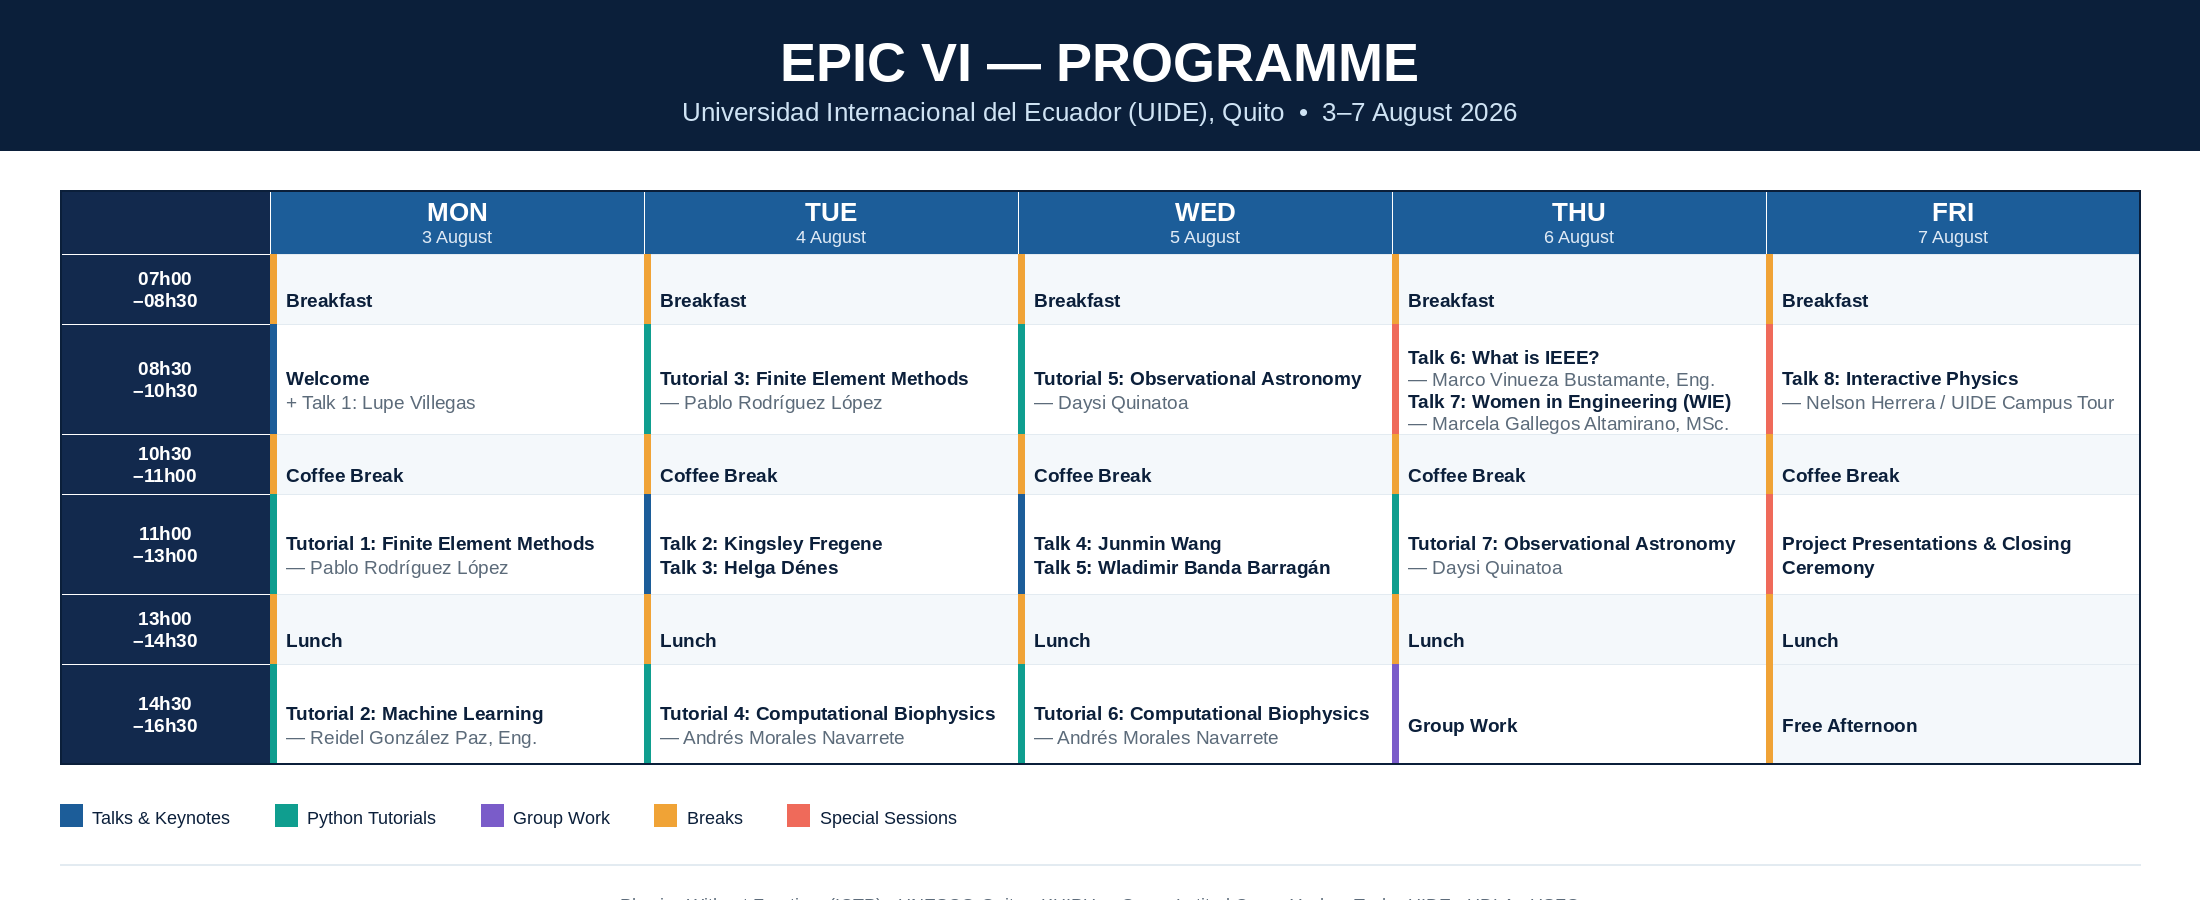
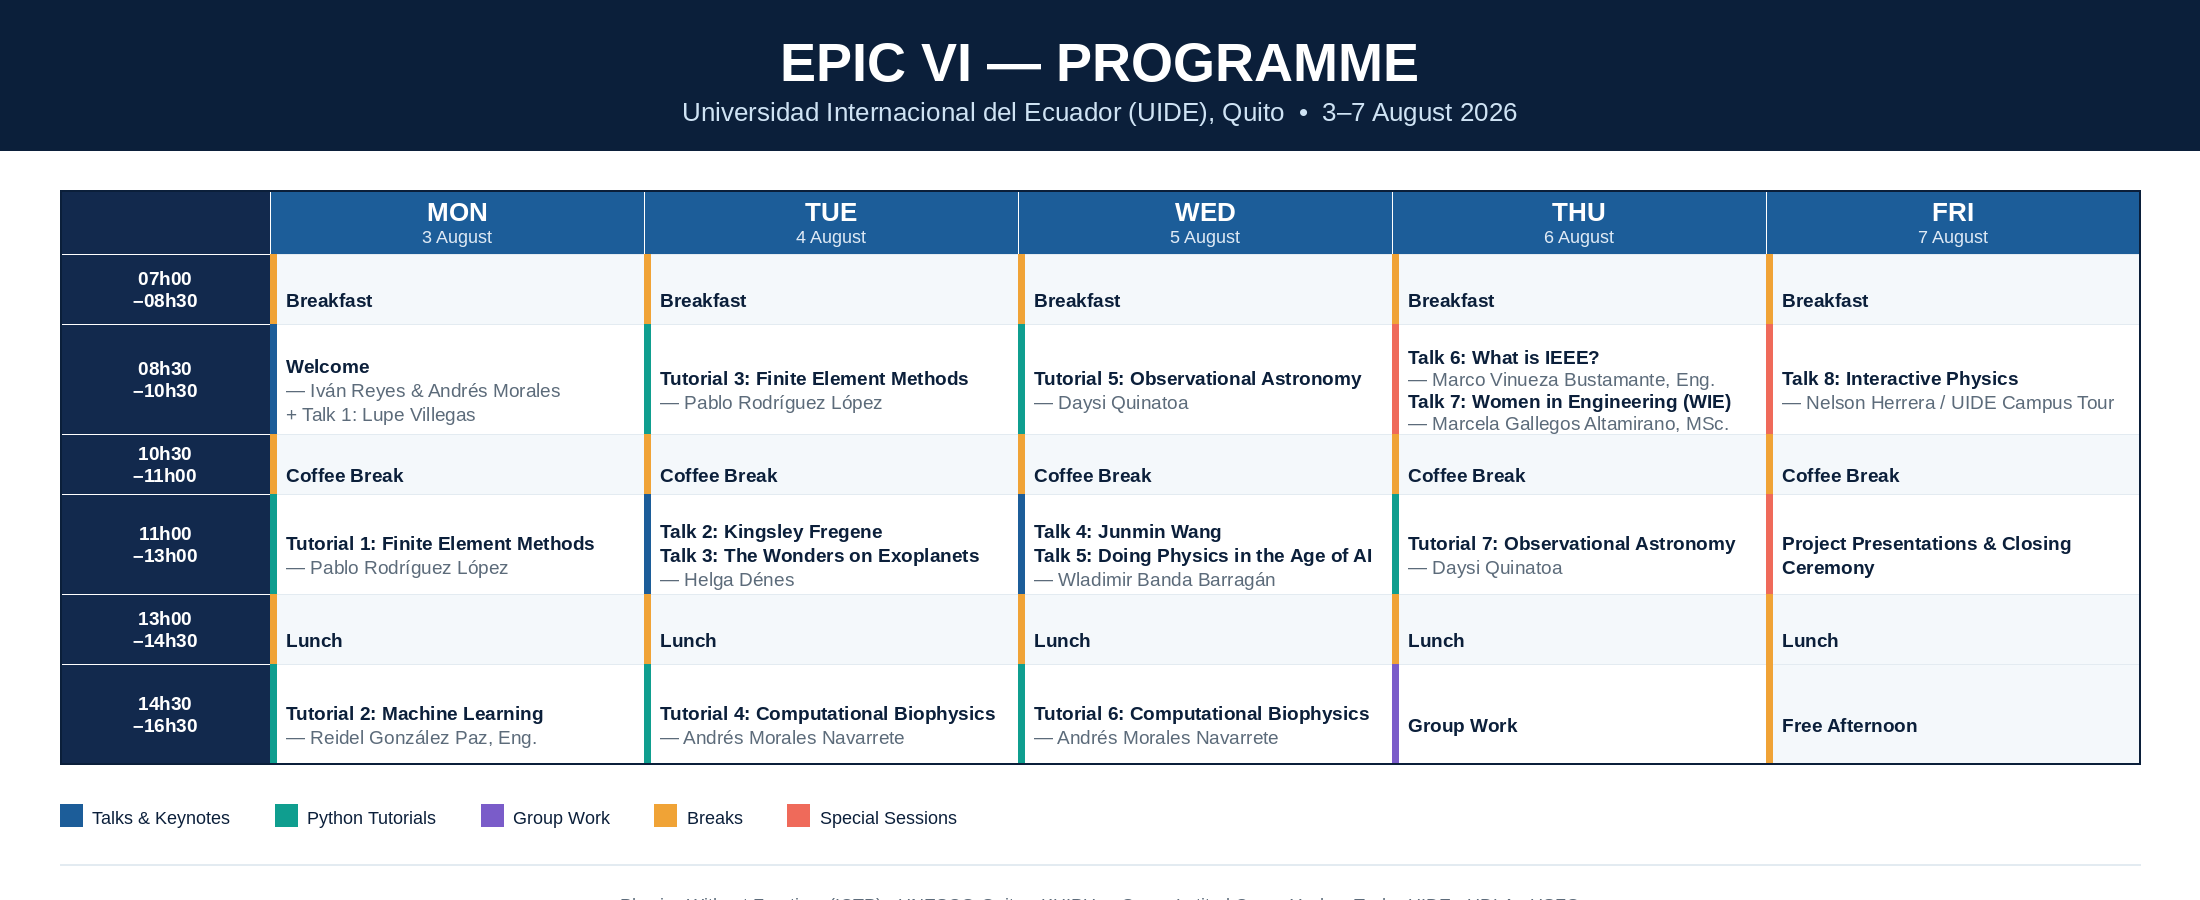
Update

Changed region(s): [[0.2782, 0.56, 0.4327, 0.6533], [0.4636, 0.56, 0.6182, 0.6533], [0.1236, 0.4044, 0.2473, 0.4667]]

diff --git a/index.html b/index.html
@@ -879,7 +879,7 @@
             <tr>
               <td class="session-time"><i class="fa fa-clock-o"></i>08h30 – 10h30</td>
               <td class="session-cell">
-                <span class="session-item"><span class="session-badge badge-special">Opening</span>Welcome to EPIC VI</span>
+                <span class="session-item"><span class="session-badge badge-special">Opening</span>Welcome to EPIC VI — <strong>Iván Reyes</strong> &amp; <strong>Andrés Morales Navarrete</strong></span>
                 <span class="session-item"><span class="session-badge badge-keynote">Talk</span>Talk 1: <strong>Lupe Villegas</strong> <span class="speaker-org">(IIBM Sols-Morreale, CSIC-UAM)</span></span>
               </td>
             </tr>
@@ -943,7 +943,7 @@
             <tr>
               <td class="session-time"><i class="fa fa-clock-o"></i>12h00 – 13h00</td>
               <td class="session-cell">
-                <span class="session-item"><span class="session-badge badge-keynote">Talk</span>Talk 3: <strong>Helga Dénes</strong> <span class="speaker-org">(USFQ)</span></span>
+                <span class="session-item"><span class="session-badge badge-keynote">Talk</span>Talk 3: The Wonders on Exoplanets — <strong>Helga Dénes</strong> <span class="speaker-org">(USFQ)</span></span>
               </td>
             </tr>
             <tr class="session-row-lunch">
@@ -996,7 +996,7 @@
             <tr>
               <td class="session-time"><i class="fa fa-clock-o"></i>12h00 – 13h00</td>
               <td class="session-cell">
-                <span class="session-item"><span class="session-badge badge-keynote">Talk</span>Talk 5: <strong>Wladimir Banda Barragán</strong> <span class="speaker-org">(Yachay Tech)</span></span>
+                <span class="session-item"><span class="session-badge badge-keynote">Talk</span>Talk 5: Doing Physics in the Age of AI — <strong>Wladimir Banda Barragán</strong> <span class="speaker-org">(Yachay Tech)</span></span>
               </td>
             </tr>
             <tr class="session-row-lunch">
@@ -1365,23 +1365,6 @@
       </div>
       <div class="col-md-4 col-sm-8 mentor-card">
         <div class="mentor-img-container">
-          <img src="images/wladi_750x750.png" alt="Wladimir Banda-Barragán" class="mentor-img">
-          <div class="mentor-social">
-            <a href="https://www.linkedin.com/in/wladimir-banda-barragan/"><i class="fa fa-linkedin"></i></a>
-            <a href="https://github.com/helgadenes/Astrophysics_yachay/commits?author=helgadenes"><i class="fa fa-github"></i></a>
-            <a href="https://x.com/wbandabarragan"><i class="fa fa-twitter"></i></a>
-          </div>
-        </div>
-        <div class="mentor-info">
-          <h3>Wladimir Banda-Barragán, PhD</h3>
-          <p class="mentor-title">Computational Astrophysics</p>
-          <p class="mentor-affiliation"><i class="fa fa-university"></i> Universidad Yachay Tech, Urcuquí</p>
-          <p class="mentor-bio">I am a computational astrophysicist working at the boundary between astrophysical gas dynamics and magnetohydrodynamics, using supercomputers to simulate astrophysical gases in the interstellar and circumgalactic media.</p>
-          <button class="btn btn-primary btn-sm mentor-more" data-mentor="mentor7">Read More</button>
-        </div>
-      </div>
-      <div class="col-md-4 col-sm-8 mentor-card">
-        <div class="mentor-img-container">
           <img src="images/ivan_750x750.png" alt="Iván Reyes Chacón" class="mentor-img">
           <div class="mentor-social">
             <a href="https://www.linkedin.com/in/ivreyes/"><i class="fa fa-linkedin"></i></a>
@@ -1412,6 +1395,23 @@
           <p class="mentor-affiliation"><i class="fa fa-university"></i> Universidad Internacional del Ecuador (UIDE), Quito</p>
           <p class="mentor-bio">Professor Emeritus at UIDE, where he has held the Chair of Mathematics, Physics, and Digital Circuits for 25 years. An Electronics Engineer with international research experience in Cuba, France, Czechia, and Poland, including a documented study on the magnetic disturbances caused by the July 1991 solar eclipse.</p>
           <button class="btn btn-primary btn-sm mentor-more" data-mentor="mentor12">Read More</button>
+        </div>
+      </div>
+      <div class="col-md-4 col-sm-8 mentor-card">
+        <div class="mentor-img-container">
+          <img src="images/wladi_750x750.png" alt="Wladimir Banda-Barragán" class="mentor-img">
+          <div class="mentor-social">
+            <a href="https://www.linkedin.com/in/wladimir-banda-barragan/"><i class="fa fa-linkedin"></i></a>
+            <a href="https://github.com/helgadenes/Astrophysics_yachay/commits?author=helgadenes"><i class="fa fa-github"></i></a>
+            <a href="https://x.com/wbandabarragan"><i class="fa fa-twitter"></i></a>
+          </div>
+        </div>
+        <div class="mentor-info">
+          <h3>Wladimir Banda-Barragán, PhD</h3>
+          <p class="mentor-title">Computational Astrophysics</p>
+          <p class="mentor-affiliation"><i class="fa fa-university"></i> Universidad Yachay Tech, Urcuquí</p>
+          <p class="mentor-bio">I am a computational astrophysicist working at the boundary between astrophysical gas dynamics and magnetohydrodynamics, using supercomputers to simulate astrophysical gases in the interstellar and circumgalactic media.</p>
+          <button class="btn btn-primary btn-sm mentor-more" data-mentor="mentor7">Read More</button>
         </div>
       </div>
 	</div>
